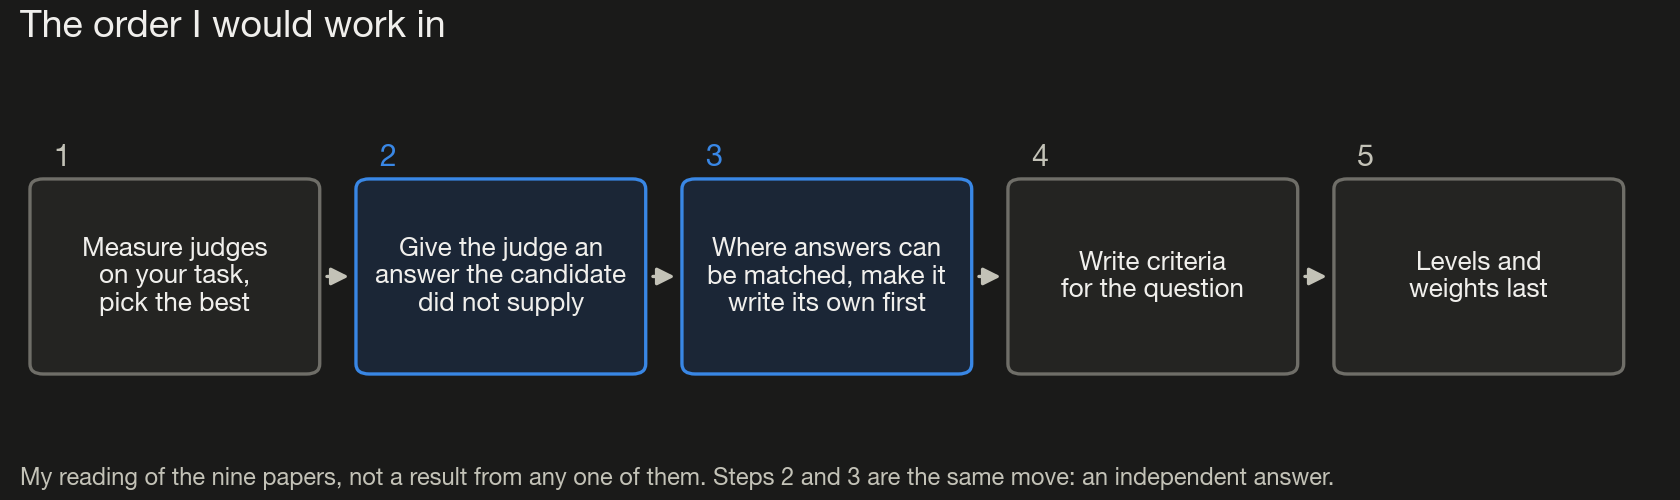
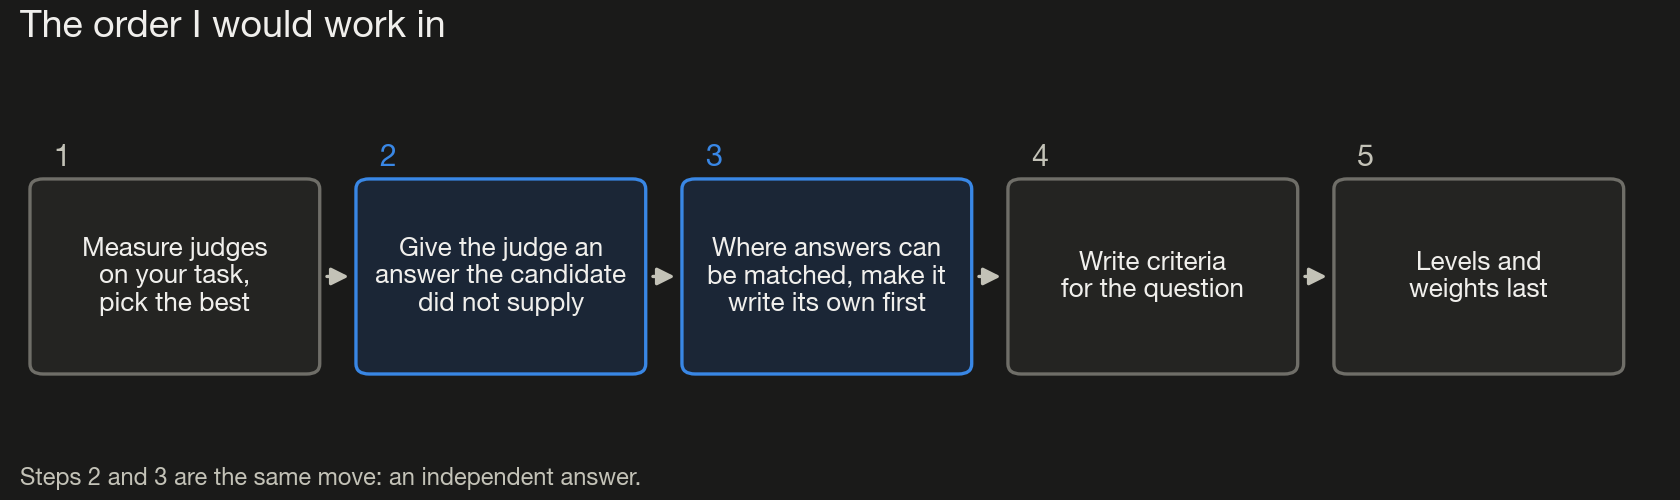
content: present the judge post's ideas directly, concept-focused summary

Changed region(s): [[0.0, 0.93, 0.8048, 0.99]]

diff --git a/hugo-site/content/posts/before-you-polish-the-rubric/index.md b/hugo-site/content/posts/before-you-polish-the-rubric/index.md
@@ -2,8 +2,8 @@
 title: "Before You Polish the Rubric: Give the Judge an Answer the Candidate Did Not Write"
 slug: "before-you-polish-the-rubric"
 date: 2026-11-14
-description: "My reading of nine published papers on LLM judges. A judge that reads the candidate answer first checks how it looks; to check whether it is right, it needs an answer that did not come from the candidate."
-summary: "A reading of nine papers, not my own experiments. The point I take from them: an LLM judge needs an independent answer, a reference or its own written first, before it scores the candidate. In one study the same judge accepted 71.9% of wrong answers when it reasoned with the candidate in view and 1.2% when it wrote its own answer first."
+description: "An LLM judge that reads the candidate answer first checks how it looks. To check whether it is right, it needs an answer that did not come from the candidate."
+summary: "An LLM judge that reads the candidate answer first ends up checking how the answer looks. Give it an independent answer, a reference or its own written first, before it scores. In one study (Zhou, 2026) the same judge accepted 71.9% of wrong answers with the candidate in view and 1.2% when it wrote its own answer first."
 tags: ["LLM-as-a-Judge", "Evaluation", "Rubrics", "Reward Design", "LLMs"]
 categories: ["technical"]
 showTableOfContents: true
@@ -11,9 +11,9 @@ showTableOfContents: true
 
 When an LLM judge gives scores you don't trust, the usual fix is to rework the rubric: add levels, split it into dimensions, weight the criteria.
 
-**My interpretation.** A judge that reads the candidate answer first ends up checking how the answer looks. To check whether it is right, the judge needs an answer that did not come from the candidate: a reference answer, or its own answer written before it scores. In these papers, that one change moved judges more than levels, labels or weights did.
+A judge that reads the candidate answer first ends up checking how the answer looks. To check whether it is right, the judge needs an answer that did not come from the candidate: a reference answer, or its own answer written before it scores. That one change moves a judge more than reworking levels, labels or weights.
 
-In one study the same judge accepted 71.9% of wrong answers when it reasoned with the candidate in view, and 1.2% when it wrote its own answer first.
+In one study ([Zhou, 2026](https://arxiv.org/abs/2607.05904)) the same judge accepted 71.9% of wrong answers when it reasoned with the candidate in view, and 1.2% when it wrote its own answer first.
 
 ![Diagram of two judging procedures. Candidate first: the judge reads the candidate, reasons with it in view, and accepts 71.9% of wrong answers. Own answer first: the judge writes its own answer, compares, accepts only on a match, and accepts 1.2%.](fig2_candidate_first_vs_own_answer.png)
 
@@ -55,7 +55,7 @@ These are single runs with no error bars, and the same judge model also graded t
 
 [DR Tulu](https://arxiv.org/abs/2511.19399) gave its rubric writer search results for each question. The share of criteria that made a concrete, checkable claim rose from 0.22 to 0.56. The downstream gain was about one point on the paper's benchmark average.
 
-**My interpretation.** I read these as one idea, and the same idea as the section above. A reference answer, retrieved evidence, and the judge's own answer written first all put something on the judge's side that the candidate did not supply. The independent answer does not have to be a gold answer. No paper here states it that way, and none tests the three against each other. I am also assuming that what holds for a judge used in evaluation carries over to a judge used as a training reward; the papers cover both, but separately.
+These are one idea, and the same idea as the section above. A reference answer, retrieved evidence, and the judge's own answer written first all put something on the judge's side that the candidate did not supply. The independent answer does not have to be a gold answer. The three have not been tested against each other, and the results for judges used in evaluation and judges used as a training reward come from separate studies.
 
 ## How this compares with reworking the rubric
 
@@ -65,7 +65,7 @@ In Rubrics as Rewards, deleting the importance labels from the rubric raised the
 
 What the rubric says does matter. In Rubrics as Rewards, one generic rubric applied to every question trained a worse model than a plain rating with no rubric, 12.5 against 25.5 (on a different evaluation set from the list above). And in that list, a rubric written for the question was worth about as much as the reference answer.
 
-**My interpretation.** Levels, labels and weights are the last thing to work on. What the criteria say, and whether the judge has an independent answer, come first. The rubric-form numbers are single results from one paper, so I hold this loosely.
+So levels, labels and weights are the last thing to work on. What the criteria say, and whether the judge has an independent answer, come first. The numbers on rubric form are single results from one study, so this part is the least settled.
 
 ## What this does not fix
 
@@ -73,11 +73,9 @@ For a research report or an essay there is no single answer to write first. The 
 
 And a judge with an independent answer is still marking against a list. A [study of rubric-based RL](https://arxiv.org/abs/2605.12474) trained a model against a strong judge that agreed with a panel of three other models 92% of the time. Shown the rubric, the panel preferred the trained model on 85.8% of prompts. With the rubric hidden, it preferred the untrained model on 78.4%. That is one run.
 
-**My interpretation.** The judge read the rubric well, and the rubric was not the whole of a good answer.
+The judge read the rubric well, and the rubric was not the whole of a good answer.
 
 ## The order I would work in
-
-This is my view, not a result.
 
 1. Measure candidate judges on your own task and pick the best. In FLASK the judge swap was the largest single effect, and in [HealthBench](https://cdn.openai.com/pdf/bd7a39d5-9e9f-47b3-903c-8b847ca650c7/healthbench_paper.pdf) the model that answered best was not the best grader: on agreement with physicians, o3 scored 0.681 and GPT-4.1 scored 0.709, though the grader prompt had been tuned on GPT-4.1.
 2. Give the judge an answer the candidate did not supply: a reference answer or retrieved evidence.
@@ -89,17 +87,11 @@ This is my view, not a result.
 
 *Steps 2 and 3 are the point of this post.*
 
-## What is published and what is mine
+## What is not settled
 
-**Published:** every number in this post. Each was checked against the original paper, except the HealthBench figures, which were checked against the arXiv copy of that paper.
+No single study compares all of these. FLASK compares judge, reference and rubric in one table, for evaluation only. In the training results the measured effects run from about one point to about thirteen, each from a single run.
 
-**Mine:** that a reference answer and writing-first are the same move; the order of effort; and the assumption that results on judges used for evaluation carry over to judges used as a training reward.
-
-**Not shown anywhere:** one study that compares all of these. FLASK compares judge, reference and rubric in one table, for evaluation only. In the training results the measured effects run from about one point to about thirteen, each from a single run.
-
-## The open question
-
-What does "write your own answer first" mean when the task is a research report, and the judge's own attempt is just another sample?
+And there is the task with no answer key. What does "write your own answer first" mean when the task is a research report, and the judge's own attempt is just another sample?
 
 ## References
 
